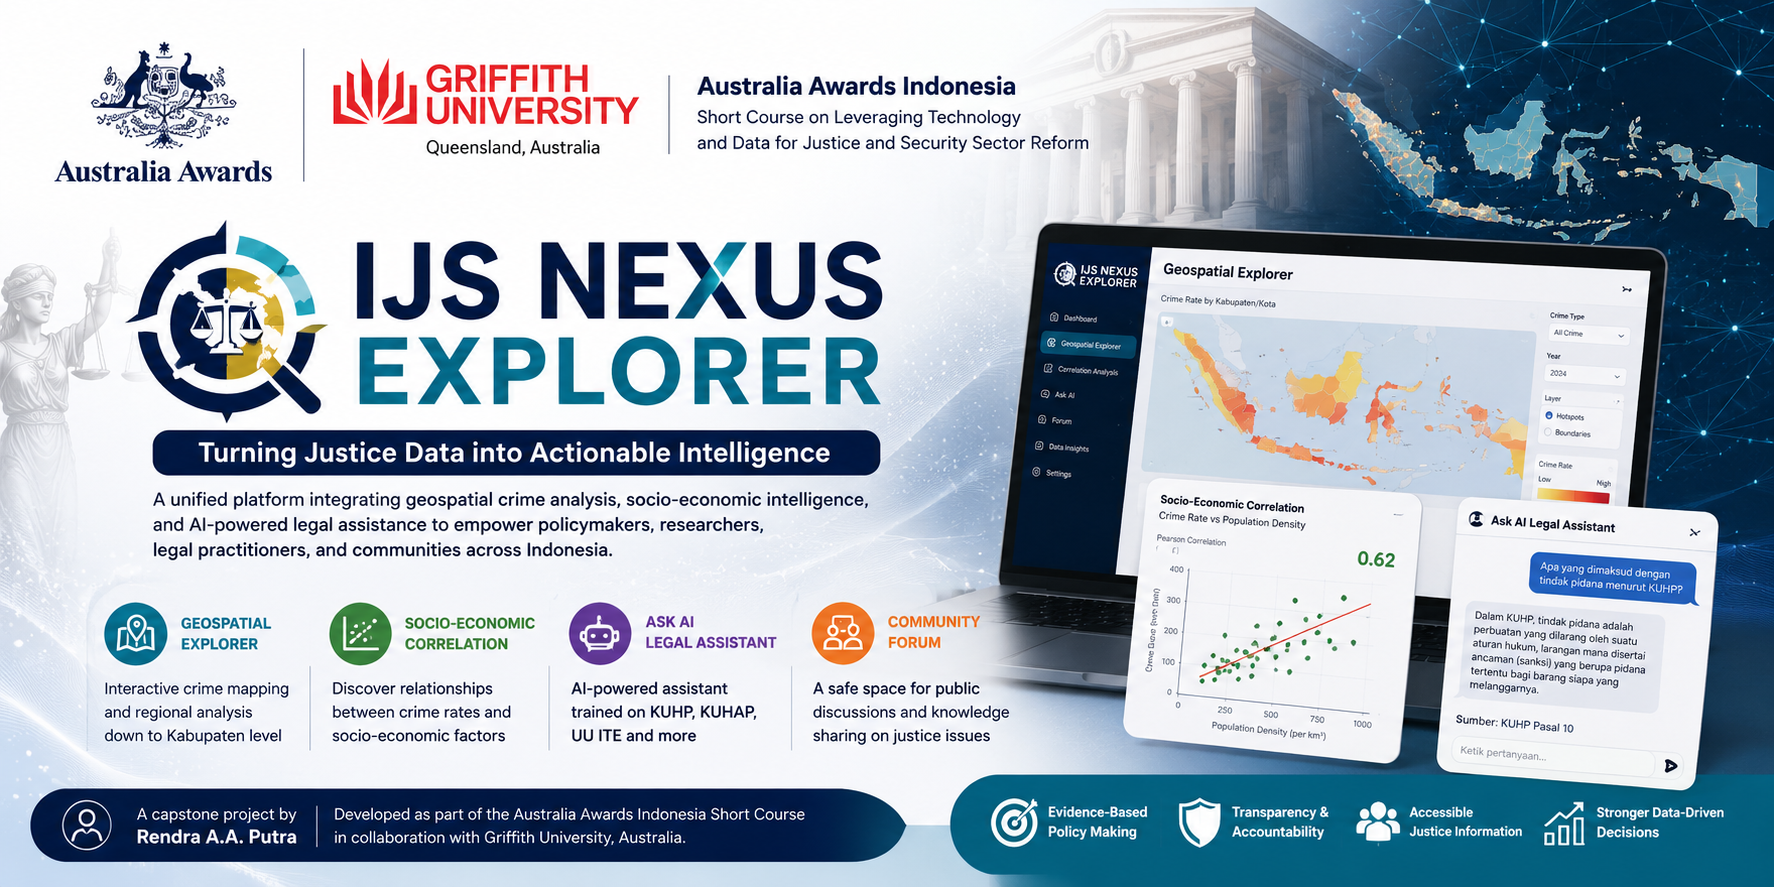
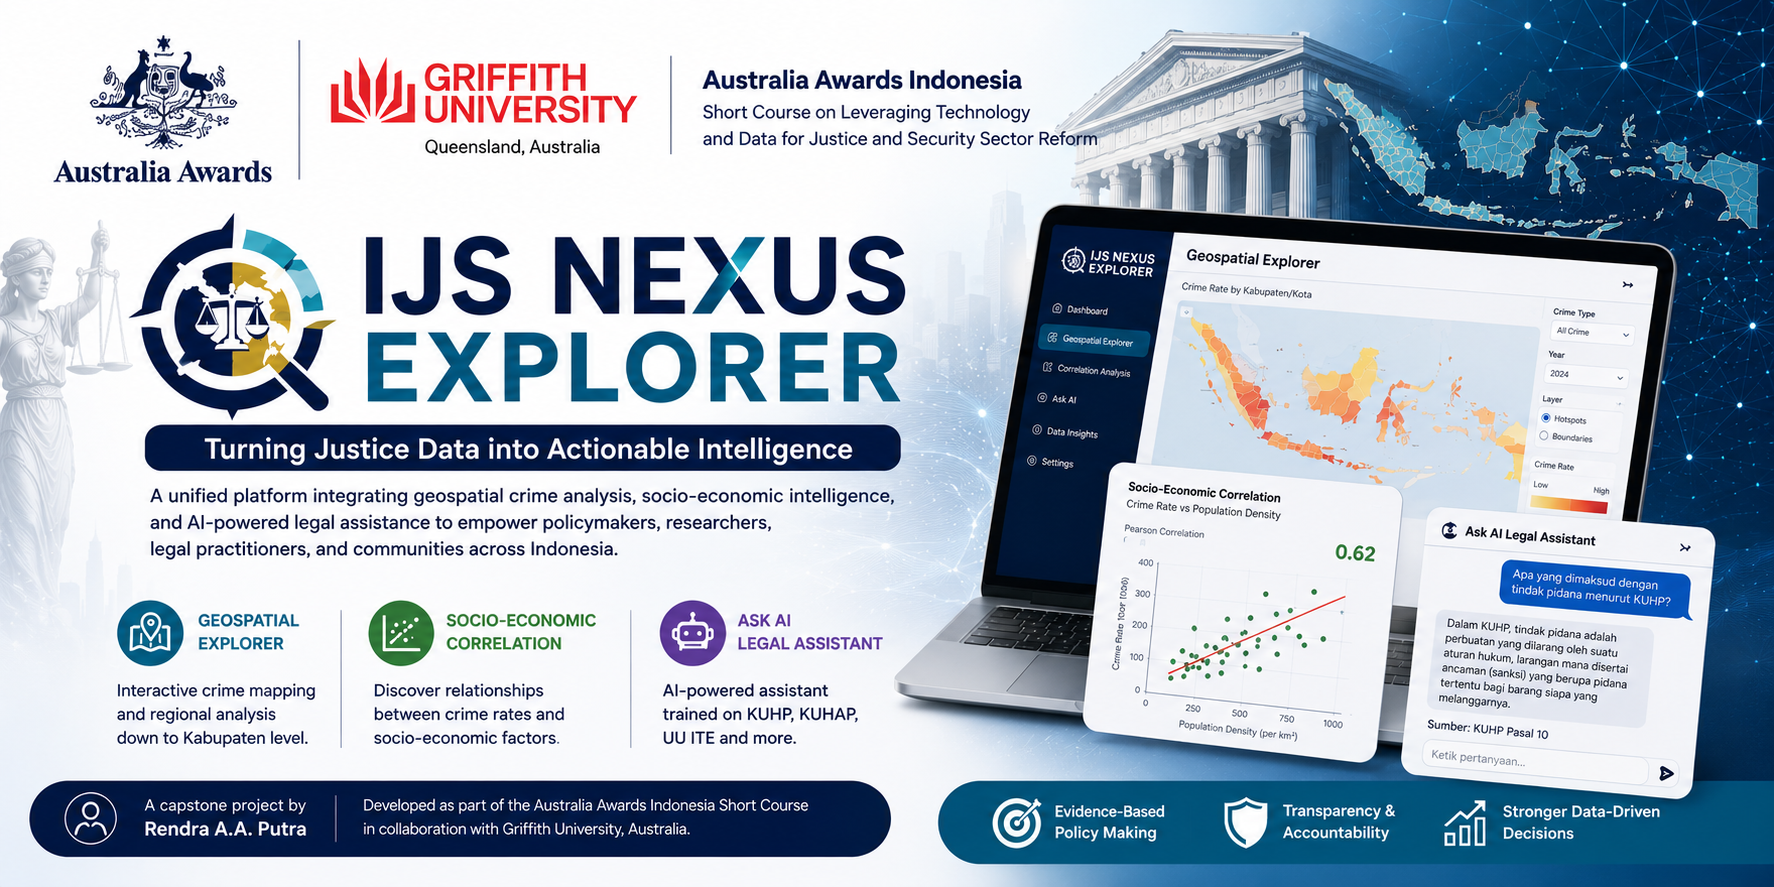
update

diff --git a/src/components/dashboard/JusticeDashboard.jsx b/src/components/dashboard/JusticeDashboard.jsx
@@ -275,7 +275,7 @@ export default function JusticeDashboard() {
           <motion.div initial={{ opacity: 0, scale: 0.98 }} animate={{ opacity: 1, scale: 1 }} transition={{ duration: 0.8, delay: 0.2 }} style={{ flex: 1, minHeight: 500 }}>
             <Card 
               style={{ borderRadius: 16, border: '1px solid #f0f0f0', background: '#ffffff', height: '100%', display: 'flex', alignItems: 'center', justifyContent: 'center', boxShadow: "0 10px 30px rgba(0,0,0,0.05)", overflow: 'hidden' }}
-              bodyStyle={{ padding: 0, width: '100%', height: '100%', position: 'relative' }}
+              styles={{ body: { padding: 0, width: '100%', height: '100%', position: 'relative' } }}
             >
               <div style={{ 
                 position: 'absolute', top: 16, left: 16, zIndex: 1000,
@@ -344,8 +344,10 @@ export default function JusticeDashboard() {
                 </Space>
               }
               style={{ borderRadius: 16, border: '1px solid #f0f0f0', height: '100%', background: '#ffffff', boxShadow: "0 10px 30px rgba(0,0,0,0.05)", overflowY: 'auto', display: 'flex', flexDirection: 'column' }}
-              headStyle={{ borderBottom: '1px solid #f0f0f0' }}
-              bodyStyle={{ flex: 1, padding: '20px', display: 'flex', flexDirection: 'column', overflow: 'auto' }}
+              styles={{ 
+                header: { borderBottom: '1px solid #f0f0f0' },
+                body: { flex: 1, padding: '20px', display: 'flex', flexDirection: 'column', overflow: 'auto' }
+              }}
             >
               {selectedMetric !== "None" ? (
                 <div style={{ display: 'flex', flexDirection: 'column', gap: 24, height: '100%' }}>

diff --git a/src/pages/LoginPage.jsx b/src/pages/LoginPage.jsx
@@ -81,26 +81,6 @@ const LoginPage = () => {
     }
   };
 
-  // =========================
-  // SSO LOGIN
-  // =========================
-  const handleSSOLogin = () => {
-    const state = crypto.randomUUID();
-    sessionStorage.setItem("oauth_state", state);
-
-    const redirectUri = encodeURIComponent(
-      `${window.location.origin}/oauth-success`
-    );
-
-    const ssoUrl =
-      `https://sso.bps.go.id/auth/realms/pegawai-bps/protocol/openid-connect/auth` +
-      `?response_type=code` +
-      `&client_id=03330-ipas-j8u` +
-      `&redirect_uri=${redirectUri}` +
-      `&state=${state}`;
-
-    window.location.href = ssoUrl;
-  };
 
   // =========================
   // UI
@@ -161,17 +141,7 @@ const LoginPage = () => {
 
           <LoginForm loading={loading} onSubmit={handleLogin} />
 
-          <Divider
-            style={{
-              borderColor: isDark ? "rgba(255,255,255,0.15)" : undefined,
-            }}
-          >
-            <span style={{ color: isDark ? "#a6a6a6" : "inherit" }}>OR</span>
-          </Divider>
 
-          <Button block size="large" onClick={handleSSOLogin}>
-            Login with SSO
-          </Button>
         </Card>
       </div>
     </>

diff --git a/src/pages/AboutPage.jsx b/src/pages/AboutPage.jsx
@@ -43,6 +43,29 @@ export default function AboutPage() {
         {/* HERO SECTION */}
         <motion.div variants={itemVariants} className="about-hero">
           <div className="about-hero-glow" />
+          
+          <motion.div 
+            initial={{ opacity: 0, y: 20 }}
+            animate={{ opacity: 1, y: 0 }}
+            transition={{ duration: 0.8, ease: "easeOut", delay: 0.2 }}
+            style={{ marginBottom: 40, display: 'flex', justifyContent: 'center' }}
+          >
+            <img 
+              src="/bannerAAS.png" 
+              alt="AAS Project Banner" 
+              style={{ 
+                width: "100%", 
+                maxWidth: 800, 
+                borderRadius: 24, 
+                boxShadow: isDark 
+                  ? "0 24px 48px rgba(0,0,0,0.6), 0 0 0 1px rgba(255,255,255,0.1)" 
+                  : "0 24px 48px rgba(99,102,241,0.2), 0 0 0 1px rgba(0,0,0,0.05)",
+                objectFit: "cover",
+                display: "block"
+              }} 
+            />
+          </motion.div>
+
           <Title level={1} className="about-hero-title">
             IJS Nexus Explorer
           </Title>

diff --git a/vite.config.js b/vite.config.js
@@ -4,4 +4,16 @@ import { defineConfig } from 'vite'
 // https://vite.dev/config/
 export default defineConfig({
   plugins: [react()],
+  server: {
+    proxy: {
+      '/auth': {
+        target: 'https://ipas-gateway-dev.bps.go.id',
+        changeOrigin: true,
+      },
+      '/ai': {
+        target: 'https://ipas-engine-gateway-dev.bps.go.id',
+        changeOrigin: true,
+      }
+    }
+  }
 })

diff --git a/README.md b/README.md
@@ -1,5 +1,5 @@
 <p align="center">
-  <img src="docs/banner.png" alt="IJS Nexus Explorer Banner" width="100%">
+  <img src="public/bannerAAS.png" alt="IJS Nexus Explorer Banner" width="100%">
 </p>
 
 <h1 align="center">IJS Nexus Explorer</h1>
